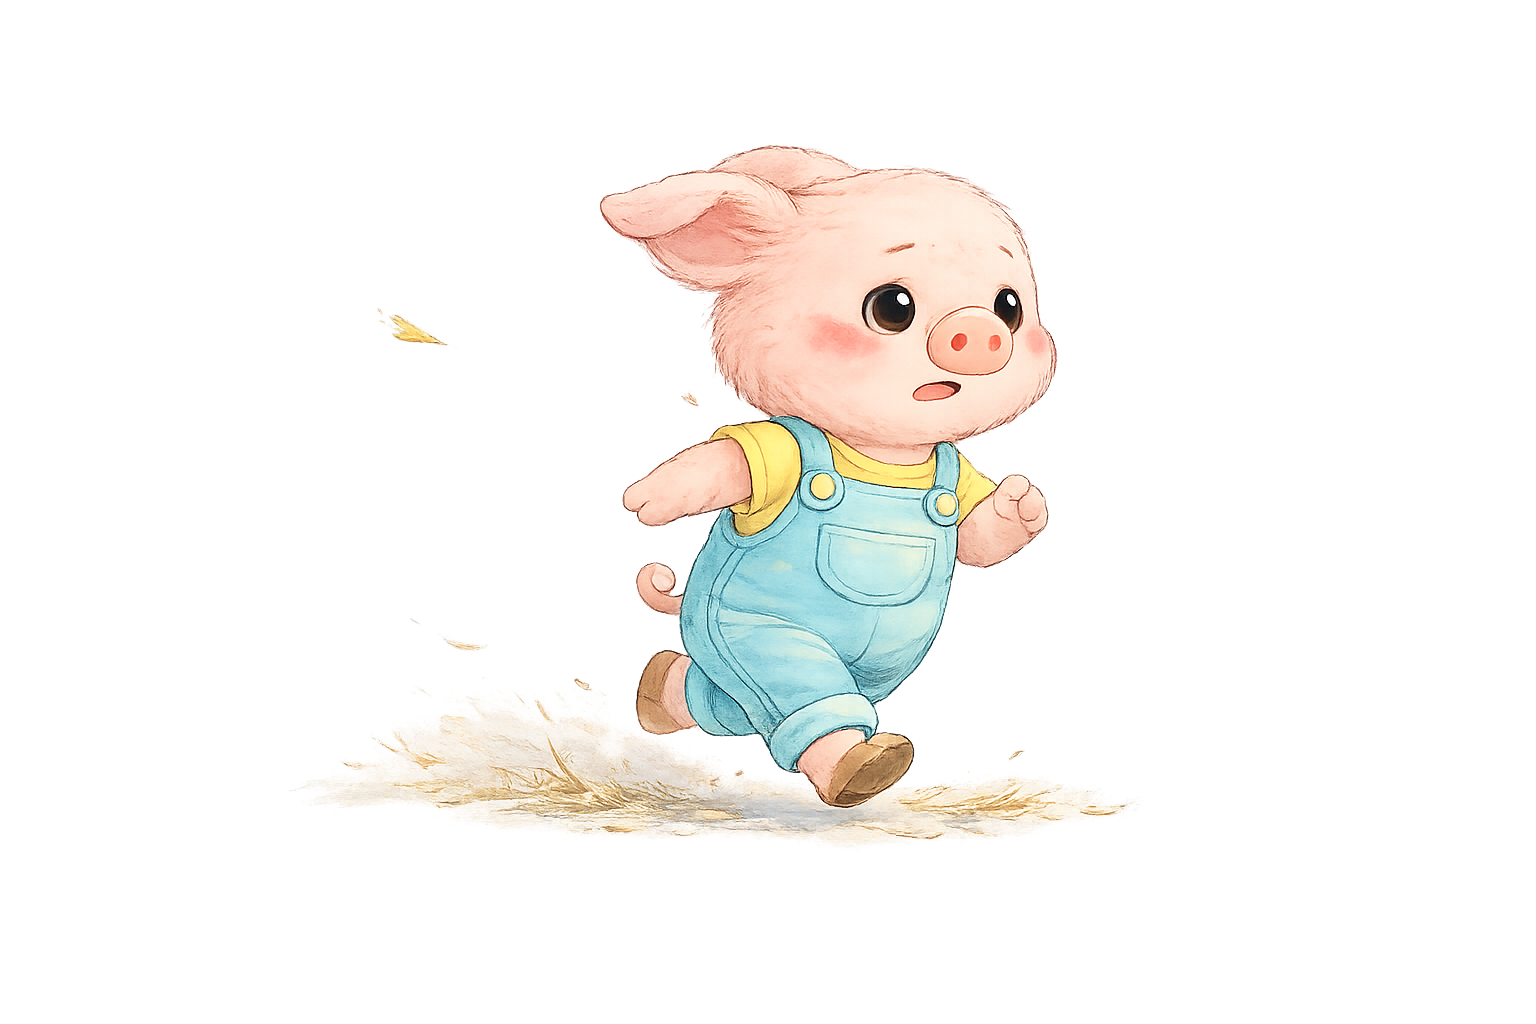
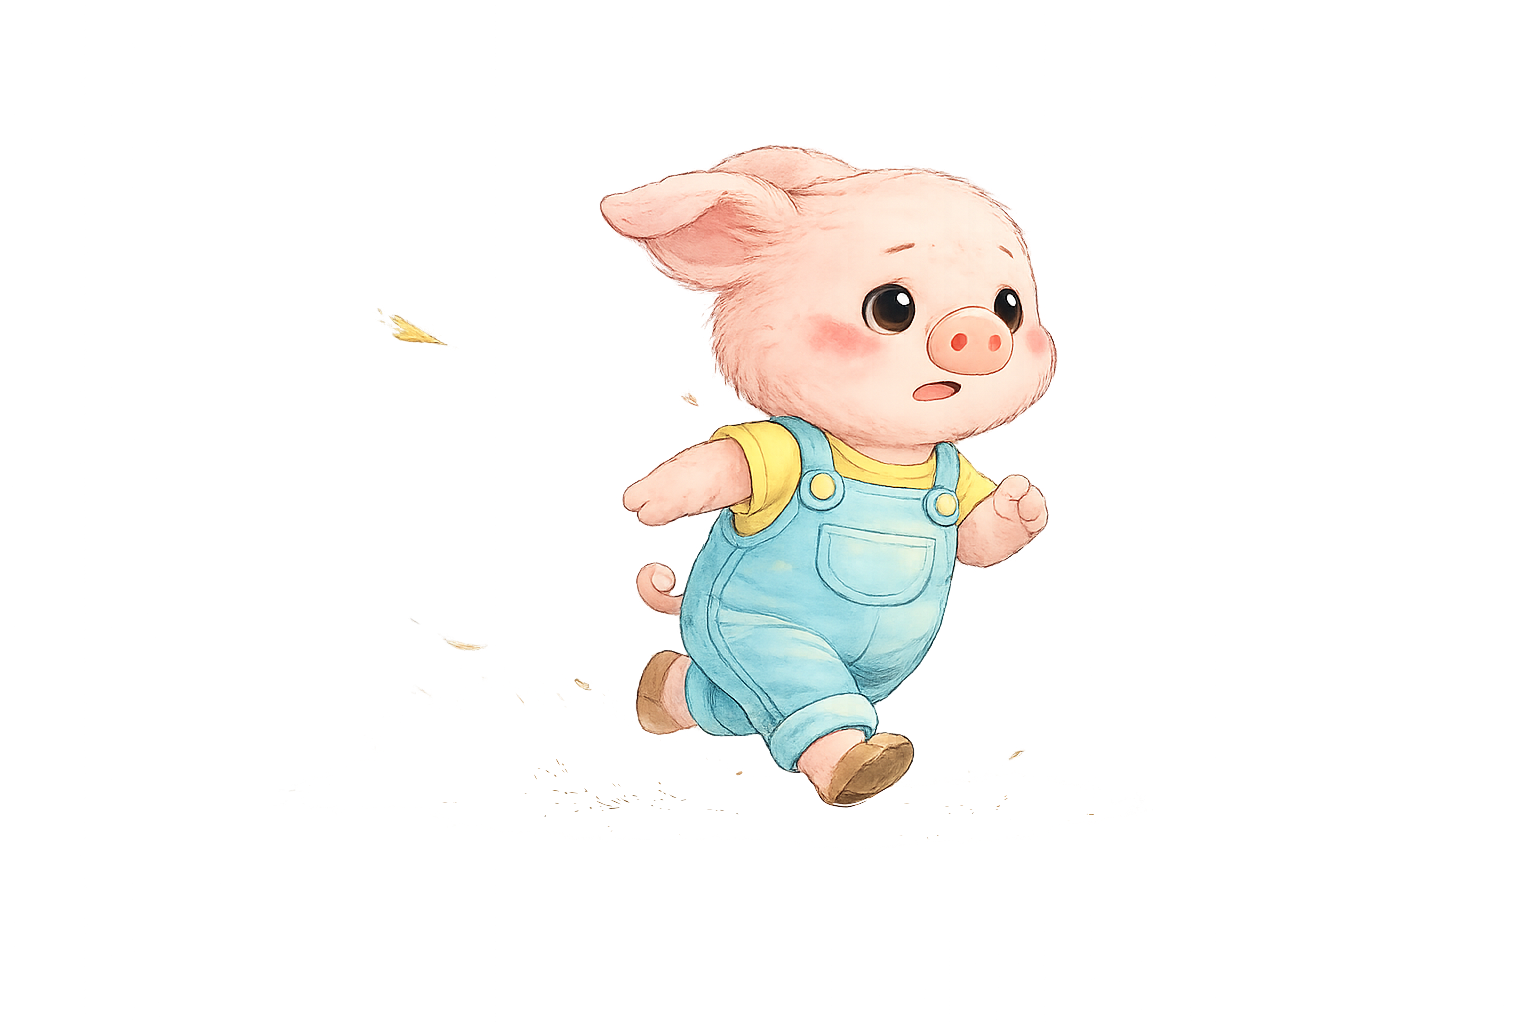
section08 innit

Changed region(s): [[0.2188, 0.6875, 0.7188, 0.8438]]

diff --git a/src/app/globals.css b/src/app/globals.css
@@ -513,18 +513,82 @@ body {
   width: clamp(340px, 42vw, 700px);
   height: auto;
   transform: translateY(-50%);
+  opacity: 1;
   user-select: none;
   pointer-events: none;
 }
 
 .section--07-house--destroyed {
   --section07-house-destroy-scale: 1.58;
+  --section07-house-destroy-shift-x: -4vw;
+  --section07-house-destroy-shift-y: -4vh;
   filter: saturate(0.95) contrast(1.03);
-  transform: translateY(-50%) scale(var(--section07-house-destroy-scale));
+  transform: translateY(calc(-50% + var(--section07-house-destroy-shift-y))) translateX(var(--section07-house-destroy-shift-x)) scaleX(-1)
+    scale(var(--section07-house-destroy-scale));
 }
 
 .section--07-house--impact {
   animation: house-destroy-impact 620ms cubic-bezier(0.2, 0.85, 0.25, 1) both;
+}
+
+.section--07-house--hidden {
+  opacity: 0;
+}
+
+.section--07-pig-surprise {
+  position: absolute;
+  right: 22vw;
+  top: 56%;
+  width: clamp(250px, 29vw, 460px);
+  height: auto;
+  opacity: 0;
+  transform: translateY(-50%) scale(0.96);
+  user-select: none;
+  pointer-events: none;
+  z-index: 3;
+}
+
+.section--07-pig-surprise--visible {
+  opacity: 1;
+  transform: translateY(-50%) scale(1);
+}
+
+.section--07-pig-surprise--impact {
+  animation: pig-surprise-impact 620ms cubic-bezier(0.2, 0.85, 0.25, 1) both;
+}
+
+.section--07-pig-run {
+  position: absolute;
+  right: 22vw;
+  top: 56%;
+  width: clamp(250px, 29vw, 460px);
+  height: auto;
+  opacity: 0;
+  transform: translateY(-50%) translateX(0);
+  user-select: none;
+  pointer-events: none;
+  z-index: 3;
+}
+
+.section--07-pig-run--active {
+  opacity: 1;
+  animation: pig-run-right 2200ms linear forwards;
+}
+
+.section--08-content {
+  position: relative;
+  padding: 0;
+}
+
+.section--08-house {
+  position: absolute;
+  right: 12vw;
+  top: 50%;
+  width: clamp(400px, 48vw, 820px);
+  height: auto;
+  transform: translateY(-50%);
+  user-select: none;
+  pointer-events: none;
 }
 
 .section--04-build-trigger {
@@ -814,6 +878,23 @@ body {
     width: clamp(300px, 44vw, 560px);
   }
 
+  .section--07-pig-surprise {
+    right: 19vw;
+    top: 55%;
+    width: clamp(220px, 31vw, 390px);
+  }
+
+  .section--07-pig-run {
+    right: 19vw;
+    top: 55%;
+    width: clamp(220px, 31vw, 390px);
+  }
+
+  .section--08-house {
+    right: 9vw;
+    width: clamp(360px, 50vw, 700px);
+  }
+
   .section--03-build-trigger {
     right: 12vw;
     bottom: 38vh;
@@ -927,6 +1008,23 @@ body {
   .section--07-house {
     right: 3vw;
     width: clamp(230px, 62vw, 440px);
+  }
+
+  .section--07-pig-surprise {
+    right: 14vw;
+    top: 57%;
+    width: clamp(190px, 44vw, 340px);
+  }
+
+  .section--07-pig-run {
+    right: 14vw;
+    top: 57%;
+    width: clamp(190px, 44vw, 340px);
+  }
+
+  .section--08-house {
+    right: 1vw;
+    width: clamp(280px, 70vw, 560px);
   }
 
   .section--04-build-trigger {
@@ -1055,27 +1153,97 @@ body {
 
 @keyframes house-destroy-impact {
   0% {
-    transform: translateY(-50%) translateX(0) rotate(0deg)
+    transform: translateY(calc(-50% + var(--section07-house-destroy-shift-y, -4vh)))
+      translateX(var(--section07-house-destroy-shift-x, -4vw)) rotate(0deg) scaleX(-1)
       scale(var(--section07-house-destroy-scale, 1.34));
   }
   18% {
-    transform: translateY(-50%) translateX(-1.5vw) rotate(-2.2deg)
+    transform: translateY(calc(-50% + var(--section07-house-destroy-shift-y, -4vh)))
+      translateX(calc(var(--section07-house-destroy-shift-x, -4vw) - 1.5vw)) rotate(-2.2deg)
+      scaleX(-1)
       scale(var(--section07-house-destroy-scale, 1.34));
   }
   36% {
-    transform: translateY(-50%) translateX(1.3vw) rotate(2deg)
+    transform: translateY(calc(-50% + var(--section07-house-destroy-shift-y, -4vh)))
+      translateX(calc(var(--section07-house-destroy-shift-x, -4vw) + 1.3vw)) rotate(2deg)
+      scaleX(-1)
       scale(var(--section07-house-destroy-scale, 1.34));
   }
   54% {
-    transform: translateY(-50%) translateX(-1vw) rotate(-1.5deg)
+    transform: translateY(calc(-50% + var(--section07-house-destroy-shift-y, -4vh)))
+      translateX(calc(var(--section07-house-destroy-shift-x, -4vw) - 1vw)) rotate(-1.5deg)
+      scaleX(-1)
       scale(var(--section07-house-destroy-scale, 1.34));
   }
   72% {
-    transform: translateY(-50%) translateX(0.7vw) rotate(1.2deg)
+    transform: translateY(calc(-50% + var(--section07-house-destroy-shift-y, -4vh)))
+      translateX(calc(var(--section07-house-destroy-shift-x, -4vw) + 0.7vw)) rotate(1.2deg)
+      scaleX(-1)
       scale(var(--section07-house-destroy-scale, 1.34));
   }
   100% {
-    transform: translateY(-50%) translateX(0) rotate(0deg)
+    transform: translateY(calc(-50% + var(--section07-house-destroy-shift-y, -4vh)))
+      translateX(var(--section07-house-destroy-shift-x, -4vw)) rotate(0deg) scaleX(-1)
       scale(var(--section07-house-destroy-scale, 1.34));
+  }
+}
+
+@keyframes pig-surprise-impact {
+  0% {
+    transform: translateY(-50%) translateX(0) rotate(0deg) scale(1);
+  }
+  18% {
+    transform: translateY(-50%) translateX(-1.7vw) rotate(-4.2deg) scale(1.03);
+  }
+  36% {
+    transform: translateY(-50%) translateX(1.45vw) rotate(3.6deg) scale(0.985);
+  }
+  54% {
+    transform: translateY(-50%) translateX(-1.1vw) rotate(-2.5deg) scale(1.015);
+  }
+  72% {
+    transform: translateY(-50%) translateX(0.8vw) rotate(1.7deg) scale(0.992);
+  }
+  100% {
+    transform: translateY(-50%) translateX(0) rotate(0deg) scale(1);
+  }
+}
+
+@keyframes pig-run-right {
+  0% {
+    opacity: 1;
+    transform: translateY(-50%) translateX(0) rotate(0deg);
+  }
+  10% {
+    transform: translateY(calc(-50% - 1.2vh)) translateX(7vw) rotate(-2deg);
+  }
+  20% {
+    transform: translateY(calc(-50% + 0.8vh)) translateX(14vw) rotate(1.5deg);
+  }
+  30% {
+    transform: translateY(calc(-50% - 1vh)) translateX(21vw) rotate(-1.8deg);
+  }
+  40% {
+    transform: translateY(calc(-50% + 0.9vh)) translateX(28vw) rotate(1.2deg);
+  }
+  50% {
+    transform: translateY(calc(-50% - 1vh)) translateX(35vw) rotate(-1.6deg);
+  }
+  60% {
+    transform: translateY(calc(-50% + 0.8vh)) translateX(42vw) rotate(1.1deg);
+  }
+  70% {
+    transform: translateY(calc(-50% - 0.8vh)) translateX(49vw) rotate(-1.2deg);
+  }
+  80% {
+    transform: translateY(calc(-50% + 0.7vh)) translateX(56vw) rotate(0.9deg);
+  }
+  90% {
+    opacity: 1;
+    transform: translateY(calc(-50% - 0.5vh)) translateX(63vw) rotate(-0.7deg);
+  }
+  100% {
+    opacity: 0;
+    transform: translateY(-50%) translateX(70vw) rotate(0deg);
   }
 }

diff --git a/src/components/sections/Section07.tsx b/src/components/sections/Section07.tsx
@@ -6,8 +6,8 @@ export default function Section07() {
   const sectionRef = useRef<HTMLElement | null>(null);
   const destroyMotionTimeoutRef = useRef<ReturnType<typeof setTimeout> | null>(null);
   const [wolfVisible, setWolfVisible] = useState(false);
-  const [isBlowing, setIsBlowing] = useState(false);
-  const [houseDestroyMotion, setHouseDestroyMotion] = useState(false);
+  const [sceneStep, setSceneStep] = useState(0);
+  const [impactMotion, setImpactMotion] = useState(false);
 
   useEffect(() => {
     const section = sectionRef.current;
@@ -35,12 +35,18 @@ export default function Section07() {
 
   const handleSceneClick = () => {
     if (destroyMotionTimeoutRef.current) clearTimeout(destroyMotionTimeoutRef.current);
-    if (!isBlowing) setIsBlowing(true);
-    setHouseDestroyMotion(true);
+    setSceneStep((prev) => (prev < 3 ? prev + 1 : prev));
+    setImpactMotion(true);
     destroyMotionTimeoutRef.current = setTimeout(() => {
-      setHouseDestroyMotion(false);
+      setImpactMotion(false);
     }, 620);
   };
+
+  const isBlowing = sceneStep >= 1;
+  const wolfIsBlowing = sceneStep === 1;
+  const hideHouse = sceneStep >= 2;
+  const showPigSurprise = sceneStep === 2;
+  const showPigRun = sceneStep >= 3;
 
   return (
     <section ref={sectionRef} className="section section--07">
@@ -59,13 +65,13 @@ export default function Section07() {
       >
         <div className={`section--07-wolf-stage${wolfVisible ? " section--07-wolf-stage--visible" : ""}`}>
           <img
-            className={`section--07-wolf-evil${isBlowing ? " section--07-wolf-evil--hidden" : ""}`}
+            className={`section--07-wolf-evil${wolfIsBlowing ? " section--07-wolf-evil--hidden" : ""}`}
             src="/img/Section07/evil_wolf.png"
             alt="Lobo feroz acercandose"
             draggable={false}
           />
           <img
-            className={`section--07-wolf-blowing${isBlowing ? " section--07-wolf-blowing--visible" : ""}`}
+            className={`section--07-wolf-blowing${wolfIsBlowing ? " section--07-wolf-blowing--visible" : ""}`}
             src="/img/Section07/wolf_blowing.png"
             alt="Lobo soplando"
             draggable={false}
@@ -73,10 +79,25 @@ export default function Section07() {
         </div>
         <img
           className={`section--07-house${isBlowing ? " section--07-house--destroyed" : ""}${
-            houseDestroyMotion ? " section--07-house--impact" : ""
+            hideHouse ? " section--07-house--hidden" : ""
+          }${impactMotion && sceneStep === 1 ? " section--07-house--impact" : ""
           }`}
           src={isBlowing ? "/img/Section07/destroyed_house.png" : "/img/Section07/straw_house.png"}
           alt="Casa de paja"
+          draggable={false}
+        />
+        <img
+          className={`section--07-pig-surprise${showPigSurprise ? " section--07-pig-surprise--visible" : ""}${
+            impactMotion && sceneStep === 2 ? " section--07-pig-surprise--impact" : ""
+          }`}
+          src="/img/Section07/pig1_surprise.png"
+          alt="Cerdito sorprendido"
+          draggable={false}
+        />
+        <img
+          className={`section--07-pig-run${showPigRun ? " section--07-pig-run--active" : ""}`}
+          src="/img/Section07/pig1_run.png"
+          alt="Cerdito corriendo"
           draggable={false}
         />
       </div>

diff --git a/src/app/page.tsx b/src/app/page.tsx
@@ -1,3 +1,6 @@
+"use client";
+
+import { useEffect, useRef } from "react";
 import Section01 from "@/components/sections/Section01";
 import Section02 from "@/components/sections/Section02";
 import Section03 from "@/components/sections/Section03";
@@ -5,10 +8,45 @@ import Section04 from "@/components/sections/Section04";
 import Section05 from "@/components/sections/Section05";
 import Section06 from "@/components/sections/Section06";
 import Section07 from "@/components/sections/Section07";
+import Section08 from "@/components/sections/Section08";
 
 export default function HomePage() {
+  const mainRef = useRef<HTMLElement | null>(null);
+
+  useEffect(() => {
+    const handleKeyDown = (event: KeyboardEvent) => {
+      const target = event.target as HTMLElement | null;
+      if (
+        target &&
+        (target.tagName === "INPUT" ||
+          target.tagName === "TEXTAREA" ||
+          target.tagName === "SELECT" ||
+          target.isContentEditable)
+      ) {
+        return;
+      }
+
+      const match = /^(?:Digit|Numpad)([1-8])$/.exec(event.code);
+      const keyNumber = match ? Number(match[1]) : null;
+      if (!keyNumber) return;
+
+      const main = mainRef.current;
+      if (!main) return;
+
+      const sections = main.querySelectorAll<HTMLElement>(".section");
+      const section = sections[keyNumber - 1];
+      if (!section) return;
+
+      event.preventDefault();
+      section.scrollIntoView({ behavior: "smooth", block: "start" });
+    };
+
+    window.addEventListener("keydown", handleKeyDown);
+    return () => window.removeEventListener("keydown", handleKeyDown);
+  }, []);
+
   return (
-    <main className="main">
+    <main ref={mainRef} className="main">
       <Section01 />
       <Section02 />
       <Section03 />
@@ -16,6 +54,7 @@ export default function HomePage() {
       <Section05 />
       <Section06 />
       <Section07 />
+      <Section08 />
     </main>
   );
 }

diff --git a/src/components/sections/Section08.tsx b/src/components/sections/Section08.tsx
@@ -1,0 +1,21 @@
+export default function Section08() {
+  return (
+    <section className="section section--08">
+      <div
+        className="section-bg"
+        style={{
+          backgroundImage: "url('/img/Section08/bg-section08.png')",
+        }}
+        aria-hidden="true"
+      />
+      <div className="section-content section--08-content" role="group" aria-label="Escena 8">
+        <img
+          className="section--08-house"
+          src="/img/Section08/wood_house.png"
+          alt="Casa de madera"
+          draggable={false}
+        />
+      </div>
+    </section>
+  );
+}
